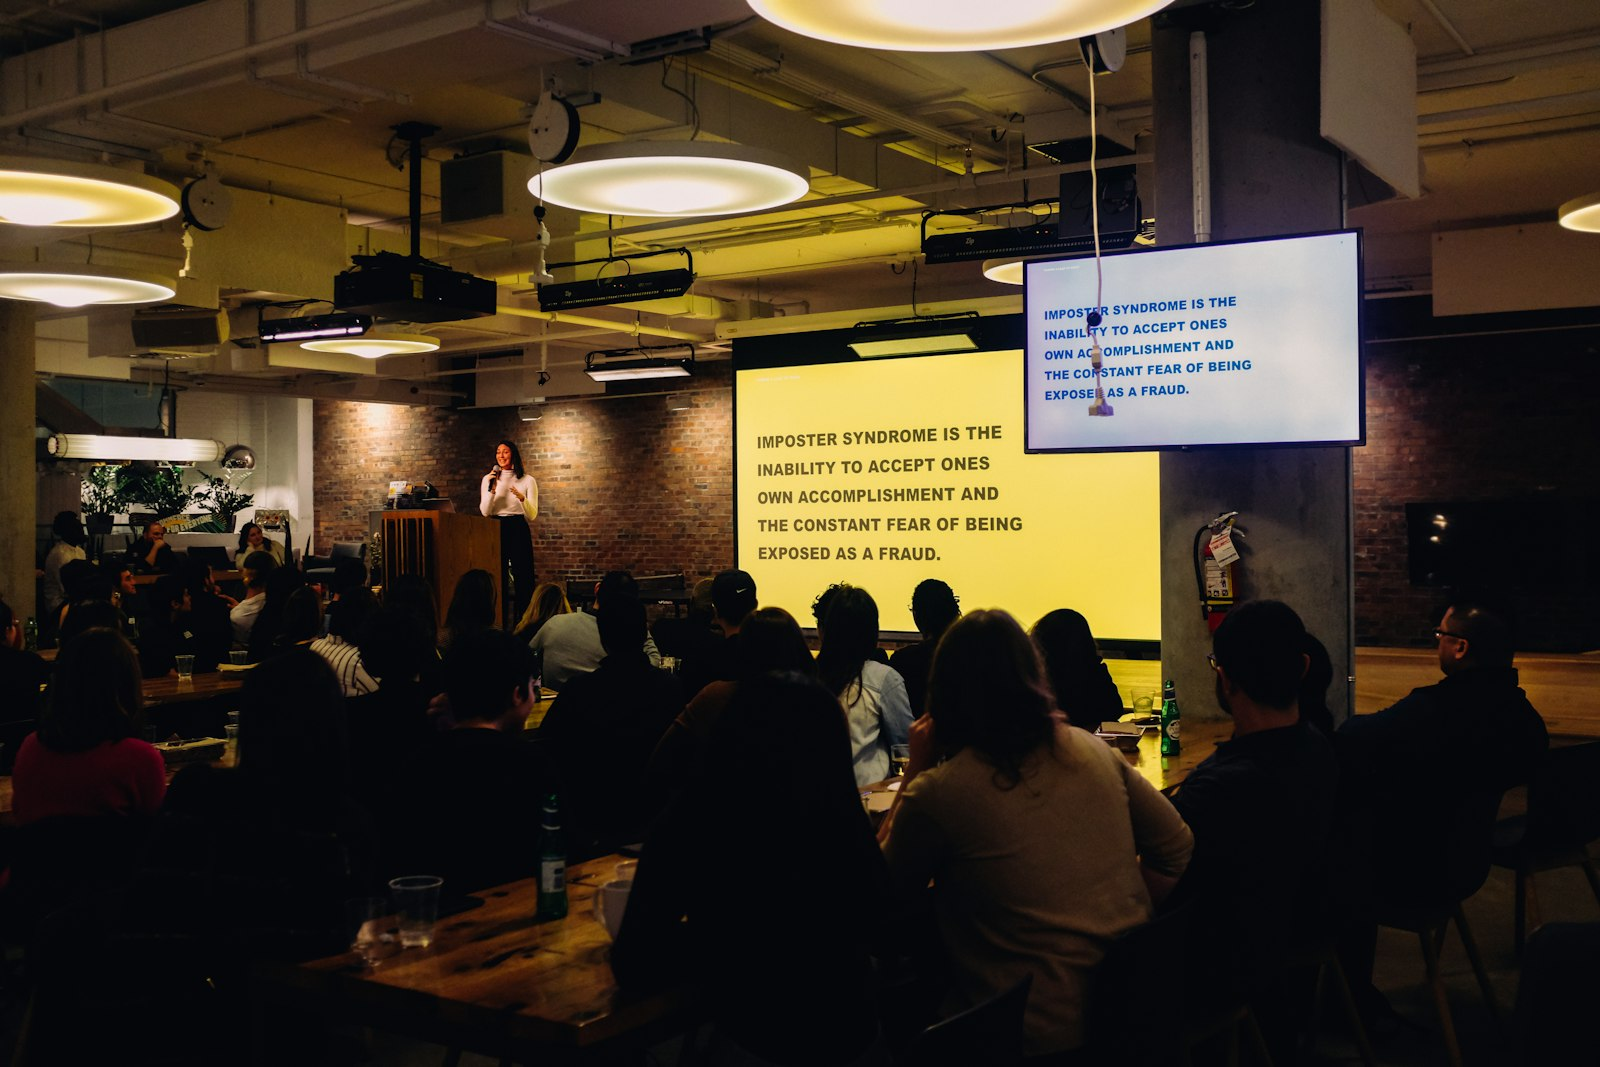
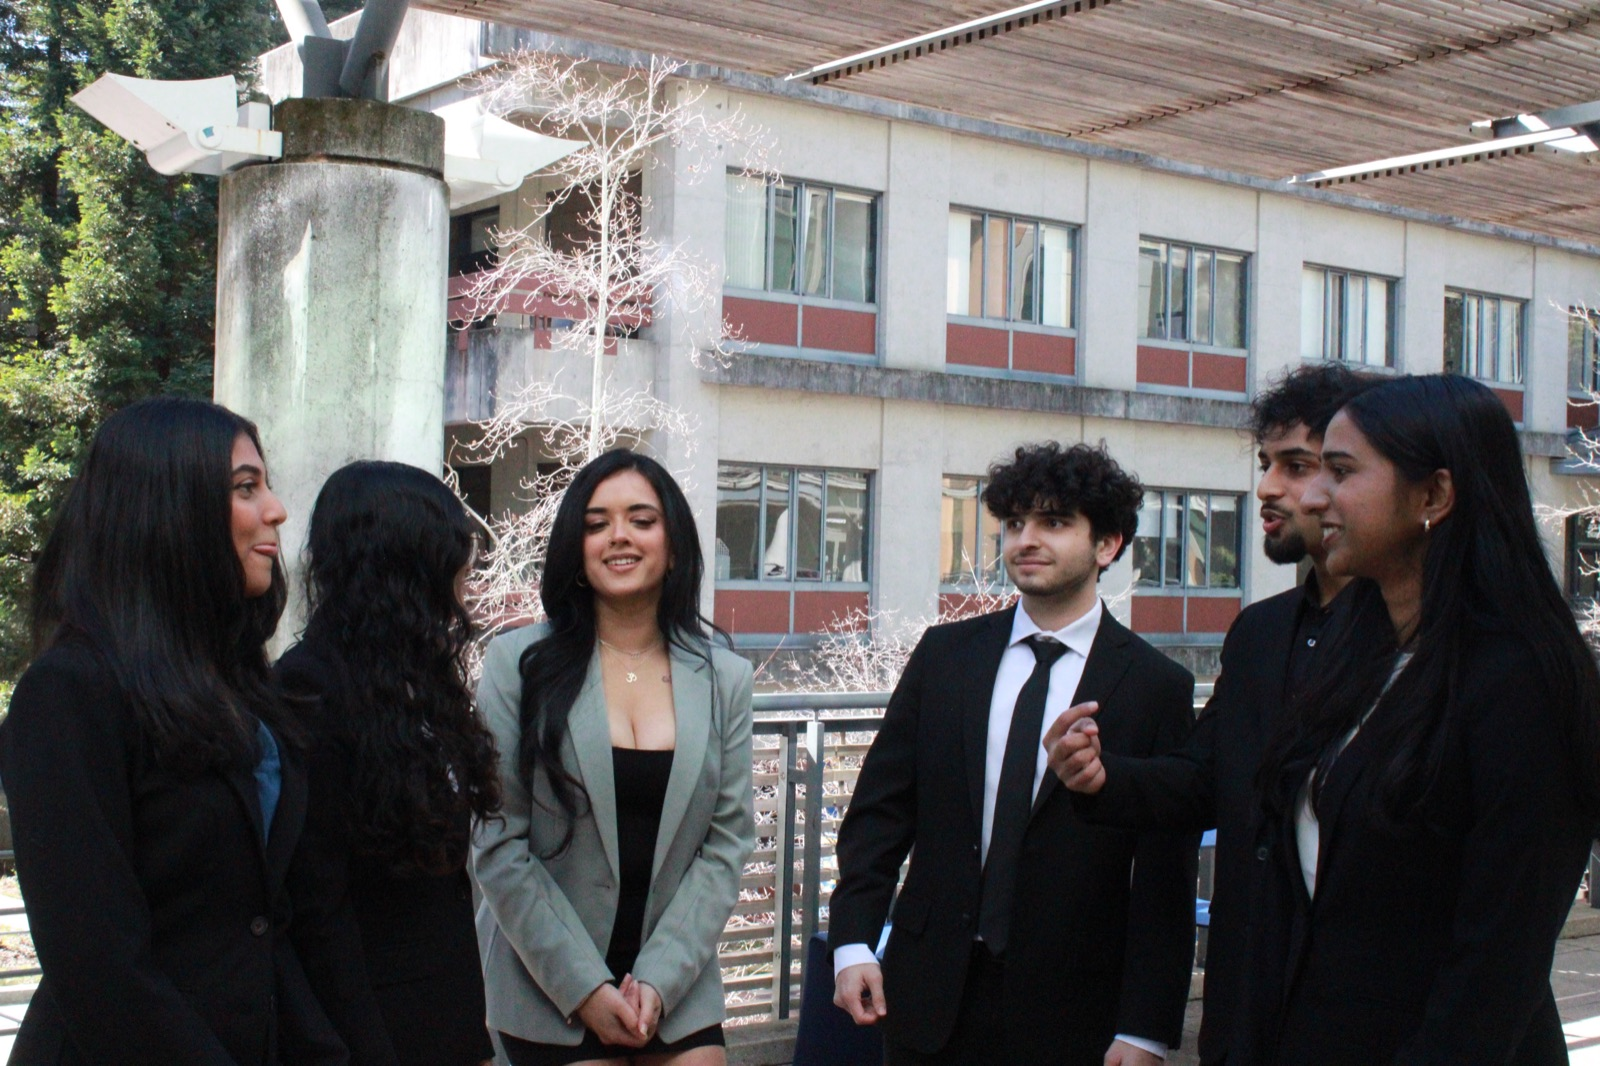
Add photos to About/Apply pages and de-mint the services grid
Give the About Us hero a real photo instead of just text, swap in a
real candid shot for the Apply page, and drop the mint background on
the Services "What we do" section so it doesn't blend into the mint
"Trusted by" band directly below it.

diff --git a/src/app/(marketing)/about/page.tsx b/src/app/(marketing)/about/page.tsx
@@ -1,5 +1,6 @@
 import type { Metadata } from "next";
 import { Globe2, Lightbulb, ShieldCheck, Sprout } from "lucide-react";
+import { PhotoPlaceholder } from "@/components/marketing/photo-placeholder";
 
 export const metadata: Metadata = { title: "About Us" };
 
@@ -30,17 +31,24 @@ export default function AboutPage() {
   return (
     <div>
       <section className="mx-auto max-w-6xl px-4 pt-14 pb-16 sm:px-6">
-        <div className="mint-panel rounded-[2.5rem] p-8 sm:p-12">
-          <p className="text-sm font-bold tracking-wide text-primary uppercase">About Us</p>
-          <h1 className="font-brand mt-3 max-w-2xl text-4xl leading-[1.05] font-bold tracking-tight text-balance sm:text-5xl">
-            A community of students who wanted their work to matter.
-          </h1>
-          <p className="mt-6 max-w-2xl text-lg text-foreground/70 text-pretty">
-            180 Degrees Consulting at UC Santa Cruz brings together students
-            from every corner of campus, from engineering and economics to
-            biology and the arts, around one shared goal: using real
-            consulting skills to help mission-driven organizations grow.
-          </p>
+        <div className="mint-panel grid gap-10 rounded-[2.5rem] p-8 sm:p-12 lg:grid-cols-[1.1fr_0.9fr] lg:items-center lg:gap-16">
+          <div>
+            <p className="text-sm font-bold tracking-wide text-primary uppercase">About Us</p>
+            <h1 className="font-brand mt-3 max-w-2xl text-4xl leading-[1.05] font-bold tracking-tight text-balance sm:text-5xl">
+              A community of students who wanted their work to matter.
+            </h1>
+            <p className="mt-6 max-w-2xl text-lg text-foreground/70 text-pretty">
+              180 Degrees Consulting at UC Santa Cruz brings together students
+              from every corner of campus, from engineering and economics to
+              biology and the arts, around one shared goal: using real
+              consulting skills to help mission-driven organizations grow.
+            </p>
+          </div>
+          <PhotoPlaceholder
+            label="180DC UCSC members working together"
+            src="/stock/about-hero.jpg"
+            className="aspect-[4/3] w-full rounded-[2rem]"
+          />
         </div>
       </section>
 

diff --git a/src/app/(marketing)/services/page.tsx b/src/app/(marketing)/services/page.tsx
@@ -132,18 +132,16 @@ export default function ServicesPage() {
         </div>
       </section>
 
-      <section className="w-full bg-mint py-16">
-        <div className="mx-auto max-w-6xl px-6">
-          <h2 className="font-brand text-2xl font-bold tracking-wide uppercase sm:text-3xl">What we do</h2>
-          <div className="mt-8 grid gap-6 sm:grid-cols-2 lg:grid-cols-3">
-            {SERVICES.map((service) => (
-              <div key={service.title} className="rounded-2xl bg-background p-6 shadow-sm">
-                <service.icon className="size-6 text-primary" />
-                <h3 className="mt-4 font-semibold">{service.title}</h3>
-                <p className="mt-2 text-sm text-muted-foreground">{service.body}</p>
-              </div>
-            ))}
-          </div>
+      <section className="mx-auto max-w-6xl px-6 py-16">
+        <h2 className="font-brand text-2xl font-bold tracking-wide uppercase sm:text-3xl">What we do</h2>
+        <div className="mt-8 grid gap-6 sm:grid-cols-2 lg:grid-cols-3">
+          {SERVICES.map((service) => (
+            <div key={service.title} className="rounded-2xl border border-foreground/10 bg-background p-6 shadow-sm">
+              <service.icon className="size-6 text-primary" />
+              <h3 className="mt-4 font-semibold">{service.title}</h3>
+              <p className="mt-2 text-sm text-muted-foreground">{service.body}</p>
+            </div>
+          ))}
         </div>
       </section>
 

diff --git a/src/app/(marketing)/apply/page.tsx b/src/app/(marketing)/apply/page.tsx
@@ -73,7 +73,7 @@ export default function ApplyPage() {
             </div>
           </div>
           <PhotoPlaceholder
-            label="Photo: prospective members at an info session"
+            label="180DC UCSC members at a chapter event"
             src="/stock/apply-info-session.jpg"
             className="aspect-[4/3] w-full rounded-[2rem]"
           />
